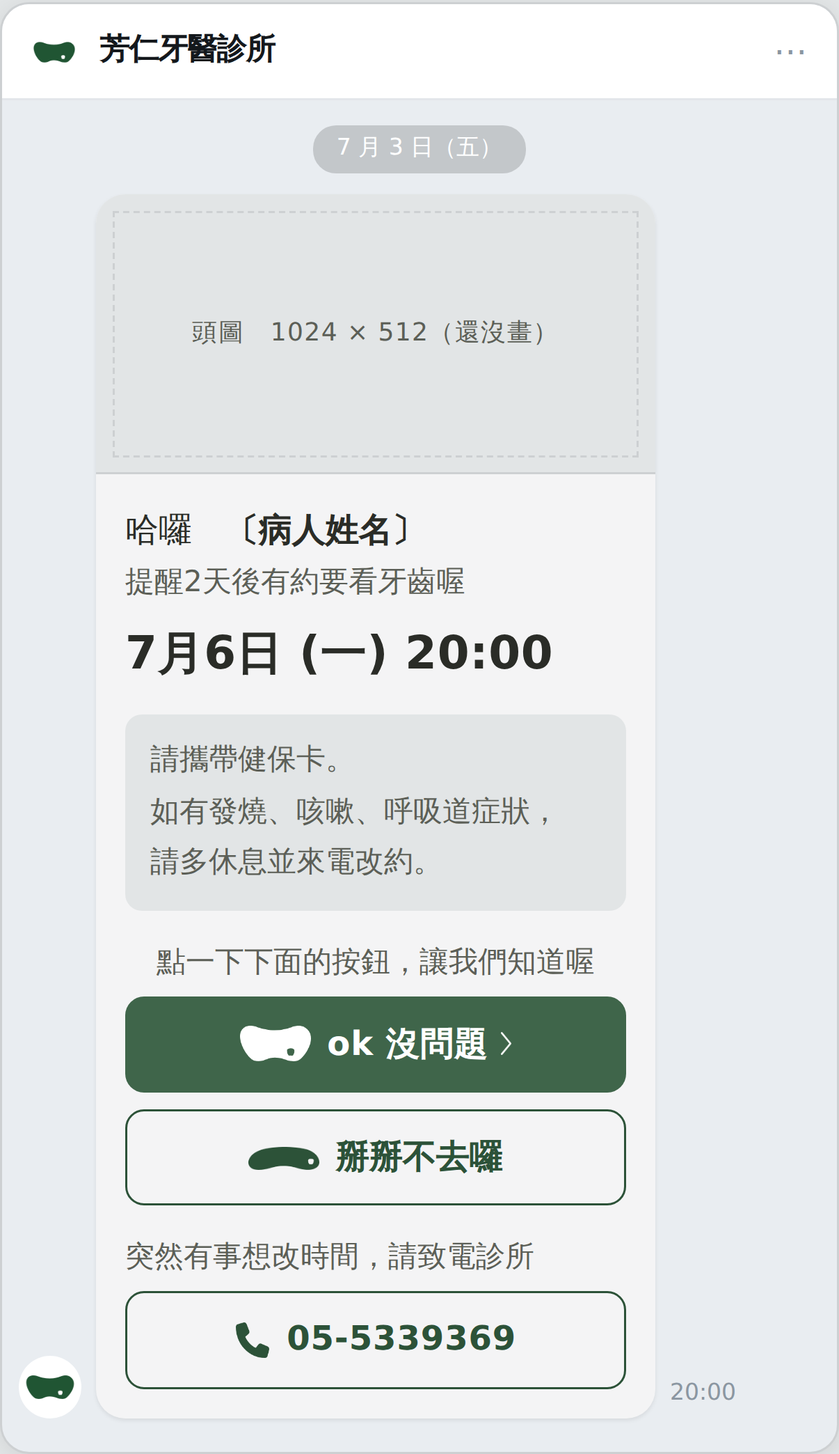
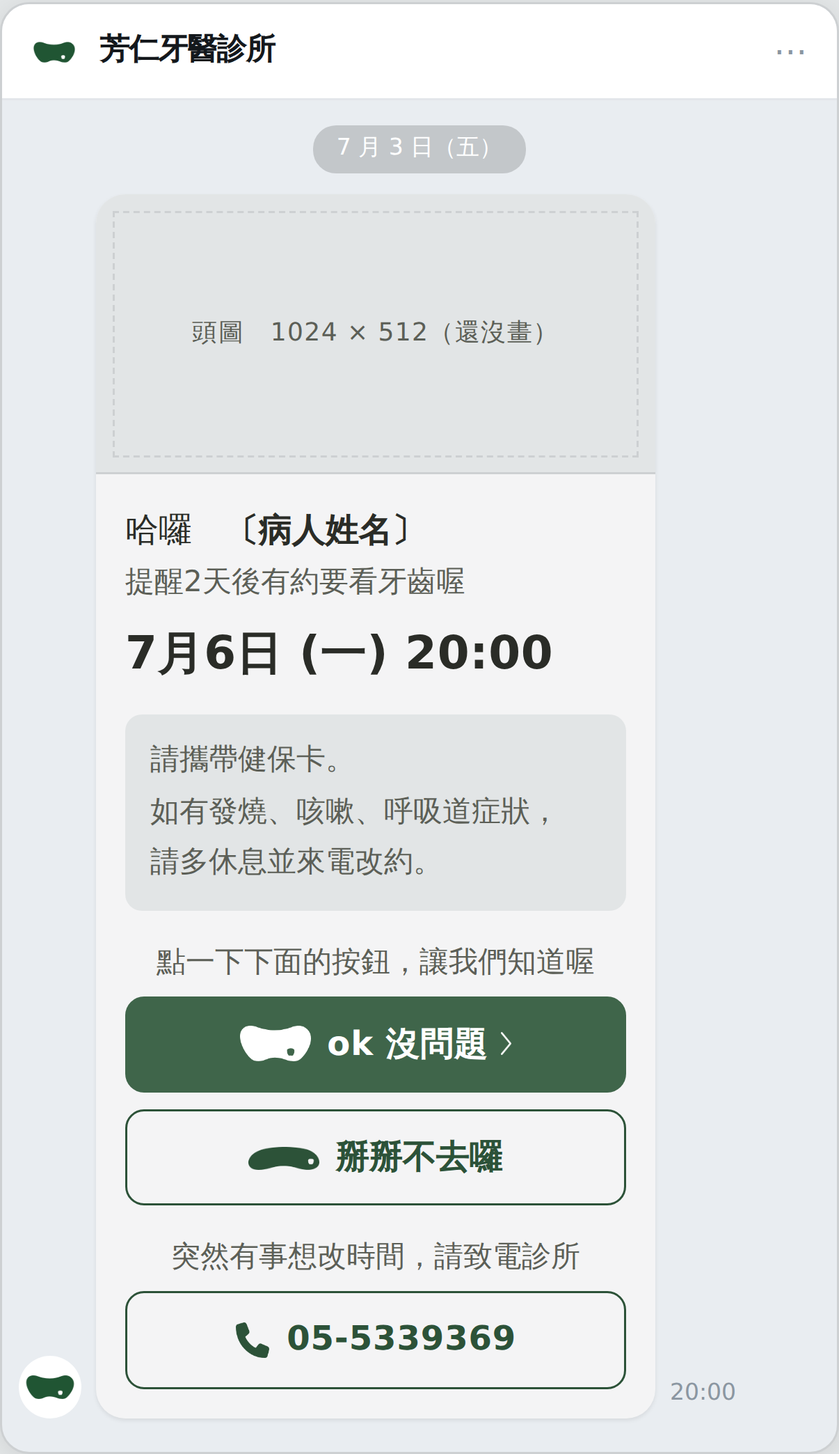
提醒卡：「突然有事想改時間，請致電診所」改置中
使用者指定。改完之後兩組「一句話 ＋ 一顆按鈕」的排法完全一致：
兩句都置中、兩顆按鈕本來就置中。

只動 text-align：高度 585.9、孤字 0、水平溢出 0、兩組間隔仍是
17.0/8.0，一個數字都沒變。

Claude-Session: https://claude.ai/code/session_01UiTa6aiLj4tvM4QQAkTm2r

Changed region(s): [[0.1534, 0.8405, 0.7056, 0.8716]]

diff --git a/preview/line-remind/index.html b/preview/line-remind/index.html
@@ -225,7 +225,10 @@ h1{font-size:1rem;font-weight:700;letter-spacing:.02em}
      16.8px 寬 ＝ 和主鈕那顆標誌**同高**（34 ÷ 2.029 ＝ 16.8）。 */
 /* ⚠ 電話那一句和它的按鈕**吃同一條規則**（同上）—— 版面上有兩組「一句話 ＋ 一顆按鈕」，
    兩組的間隔不一致的話，讀者會以為那是兩種不同的關係。切換條那把尺同時管這兩組。 */
-.pv-new .telnote{font-size:14px;line-height:1.7;color:var(--ink-soft);margin-top:14px}
+/* ⚠ 置中（2026-09-04 使用者指定）—— 這樣兩組「一句話 ＋ 一顆按鈕」的排法
+   完全一致：兩句都置中、兩顆按鈕本來就置中。 */
+.pv-new .telnote{font-size:14px;line-height:1.7;color:var(--ink-soft);margin-top:14px;
+  text-align:center}
 .pv-new .telnote + .tel{margin-top:calc(var(--ctagap, 8px) - 4.8px)}
 .pv-new .tel{display:flex;align-items:center;justify-content:center;gap:8px;
   border:1px solid var(--deep);border-radius:9px;padding:11px 6px;margin-top:8px;

diff --git a/CLAUDE.md b/CLAUDE.md
@@ -2298,7 +2298,7 @@ topics/<spec>/         ← 產出。**不要手改**，重跑就沒了
 | 招呼圖卡的頭圖 | `drafts/line-hello/`（`generate.mjs`／`bubble.mjs`／`README.md`）→ `preview/line-hello/hero-zenmaru.jpg`，規格頁 `/preview/line-hello/`。✅ 定案 |
 | **綁定完成** | ✅ **2026-09-04 定稿**（使用者：「最後定稿的是這個」）：**Ⓗ 你整理的・圖卡 ＋ 有頭圖 ＋ 改約那一塊用淡藍 `.10` 的淡底**。Flex 的 JSON 在 **`drafts/channels/bind-done-card.json`**，規格頁 `/preview/line-bind-done/`（**切換條已拿掉**），守門 **`node drafts/channels/check-bind-done.mjs`**，圖片兩張（`node drafts/channels/bind-done-png.mjs`，加 `--chat` 出第二張）：`shot-bind-done.png`（卡片本身，804×1857，3×）與 **`shot-bind-done-chat.png`**（**在 LINE 裡長什麼樣的模擬**，1206×2427，3×）。⚠ 模擬那張要用 **430 寬**拍 —— 429 以下手機框會貼齊頁面兩邊、圓角與左右框線被拿掉。⚠ **換視窗寬度截圖之前要先量「要展示的那個東西有沒有跟著變」**：實測 390 與 430 卡片都是 **268.0px**，只有周邊留白差 12px（第 **19-21** 節）。⚠ **Ⓖ 沒有真的落選** —— 它是「廠商送不出 Flex Message」時的退路（同一份內容一字不差），規格頁最底下仍然畫著它。⚠⚠ **兩塊淡底在 JSON 裡要寫合成後的實色**（警示 `#EEE5E6` ＝ 磚紅 .09、改約 `#E2E8EF` ＝ 淡藍 .10），不要寫半透明。⚠ **沒有拆成 body ＋ footer**（招呼卡那樣拆是因為中間有 separator，這一張兩塊方塊之間刻意沒有分隔線）。推導在第 **19-20** 節。以下是走到定稿的過程 —— **提案中**：`/preview/line-bind-done/`（**八案**，2026-09-03 開；**Ⓖ／Ⓗ 是使用者 2026-09-04 自己整理的那一份**，Ⓖ 純文字、Ⓗ 同一份做成圖卡，帶進三件新事實：提醒**要回覆確認**、**24 小時沒回應系統會自動取消**並遞補、家人綁定**要洽櫃檯**）。推導在 `drafts/channels/README.md` **第十九節**（09-04 那一輪在 **19-12**），定稿文字在 `drafts/line-auto-reply/README.md` 第 24-2 節「貳」。⚠ 使用者挑完才寫 Flex 的 JSON。⚠⚠ **時間的說法 2026-09-04 定案「看診前 48 小時」**，切換條上那一排已經收掉；**但招呼圖卡仍然寫「看診前2天」**（使用者自己逐字寫的、已定案），兩則目前不一致，**要統一得他點頭**。⚠ 這個 48 小時和「看診日 2 天前（不含假日）」是兩個不同的數字（提醒時機 vs 改約期限），**不要順手改成一致**。⚠⚠ 2026-09-04 再兩件（第 **19-13** 節）：「這裡沒有專人即時回覆訊息」**搬到改約那一段前面**（它是「為什麼要打電話」的前提）；24 小時那一段接上一把**強調**的尺（`?e=`），**兩種容器的四格不一樣** —— LINE 的**純文字訊息沒有粗體也沒有顏色**，只剩空行與記號，Flex 圖卡才做得到加粗／換色／淡底方塊。⚠⚠ 2026-09-04 再兩件（第 **19-15** 節）：**圖卡那一側定案「淡底方塊」**（切換條上收掉、寫死；純文字那一側還沒定案、那一排還在）；**改約那一句換成使用者的寫法**「約診更改或取消，最晚請於看診日前 2 天（不含假日）、於診所開診時段來電變更」——「最晚」把期限講死，**「開診時段」取代「週一至週五」**（國定假日休不休診還沒問到，寫「開診時段」就不必替診所答那一題）。⚠ 其餘六案仍是舊寫法，**刻意沒動**，等他挑完哪一案再統一。⚠⚠ 2026-09-04 再一件（第 **19-16** 節）：**改約那一段也做成淡底方塊**，底色四選一（紙灰／品牌綠／深綠松／同上面），**兩塊之間那條分隔線拿掉了**。⚠⚠ **綠與深綠松是 `.16` 不是 `.09`** —— 量過，九分之一濃時四個底色全部落在 **1.1 階**之內（L\* 90.6~91.7），**四格長得一模一樣、那把尺沒有意義**；`.16` 才讀得出是綠的，代價是比上面那塊磚紅重約 4 階。**通則：一把尺給出去之前先算四格彼此差多少，差不出來的尺比沒有尺還糟**。⚠⚠ 2026-09-04 再三件（第 **19-17** 節）：**加了淡藍、深綠松那一格拿掉**（深綠松 `.16` 是 L\* 86.2・彩度 2.5，和品牌綠的 87.6・2.7 分不出來）；淡藍**不能用官方色票那支** `#3C596B`（`.16` 彩度只剩 2.5，讀起來是灰的），取的是**齒顎矯正那支套色** `#4478b5`（`.16` 彩度 6.3，站上唯一淡開之後還讀得出是藍的）——**已知取捨：那是矯正的顏色**，但這一則不在站上也不在任何科別頁裡，不會和標記撞在一起。**通則的第二半：每一格還要撐得起它自己的名字，判準是彩度不是色相。**⚠ **數字前後那幾個半形空格拿掉了**（我照站上內文的習慣加的，他自己寫的那一份沒有），「（不含假日）」的**全形括號換成半形**（全形一組吃掉約 19px）。⚠⚠ **Ⓗ 那兩段之間的空行換成段落間距**：`\n\n` 是一整行 **24.5px**，拆成兩個 `text` ＋ 一個 `margin` 是 **8px**。**通則：Flex 裡兩段的距離有兩把工具，不要只會用空行**（`margin` 有 xs 4 ~ xxl 24 六階）；**Ⓖ 純文字那一側沒有這把工具，只有空行**。⚠⚠ 2026-09-04 再兩件（第 **19-18** 節）：**淡藍收到 `.10`**（使用者：「淡藍色看過去比上面的淡紅色還濃　要調成一樣的」）——「一樣濃」＝ **兩塊合成到卡色之後的 L\* 相同**，基準是磚紅 `.09` 的 L\* 91.6，反解出 a = .101。⚠⚠⚠ **而只有藍做得到，品牌綠與深綠松兩格因此都拿掉了**：壓到同一個 L\* 之後剩下的彩度是**淡藍 4.06**／磚紅 3.29／官方藍 1.50／品牌綠 1.37／深綠松 1.19，而**紙灰自己就是 1.18** ——「等重的綠」畫出來就是紙灰那一格。尺剩三格（紙灰／淡藍 .10／同上面）。**通則的第三半：「看得出顏色」與「和旁邊等重」是兩個要求，只有夠飽和的色相同時滿足得了；判斷方法是把每一支色壓到目標 L\* 再看誰的彩度還在。**⚠ **Ⓗ 那一對全形「」拿掉了，改成把選單名加粗**（使用者：「「」的全形也有很大的空格」）——`「`／`」` 各佔一整個全形字寬但墨只有角落那一撇，一對吃掉 **28.3px**（那一行 183.8 → 155.5）。Flex 就是一個 `span` 加 `weight: bold`，顏色不動。⚠⚠ **Ⓖ 純文字那一對留著，不是漏改** —— 純文字沒有粗體，拿掉引號就標示不出那是選單名。⚠ 實作：`<b>` **不可以寫進資料裡**（`spec()` 要拿同一份字串比對孤字），資料維持純文字、多一個 `strong` 欄位，`render()` 那一層才包。⚠ 2026-09-04 **存成圖片了**（第 **19-19** 節）：`node drafts/channels/bind-done-png.mjs` → `preview/line-bind-done/shot-card-{pa,bl,br}.png`（圖卡三格底色）、`shot-text.png`（純文字泡泡）、`shot-cards.png`（三格並排）。⚠⚠ **出在 `preview/` 不是 `drafts/`** —— drafts 進不了 `_site`，而使用者要的是「也存在網路上」（招呼卡那支 `card-png.mjs` 出在 drafts/，兩支落點不同是刻意的）。⚠⚠ **拍的是提案頁自己那張卡**，所以**那一頁改了就要重跑**，不然圖會開始說謊 |
 | 綁定完成的頭圖 | ✅ **2026-09-03 第四版定案**（使用者：「很不錯，就用這個圖吧」）—— 成品 `preview/line-bind-done/hero-bind.jpg`（**1024×512**，`node drafts/bind-done-hero-crop.mjs`，原檔 `drafts/bind-done-v4-src.jpg`），已接進提案頁 Ⓑ 那一案。定稿提示詞與逐輪推導在 **`drafts/line-bind-done-prompt.md`** —— 〈創造亞當〉的診間版（Gemini 出圖，使用者自己跑，走了四版）。⚠⚠⚠ **不要把原作那個「上帝在上」抹平成兩人等高** ——第一版就是這樣被退回的（寓意沒了，而且兩個成年人同高對指會被讀成醫病關係不單純）：**一側是一團人、飄著、比較高，另一側一個人躺著、比較低**，這個不對等就是那張畫的梗。⚠ 但**不對等只能靠位置給、不可以靠肌肉張力給** —— 第三版把病患的手寫成鬆垮的，整個人看起來像喝醉（＝麻醉或鎮靜的聯想）。⚠ 臉一律照站上那一套（有膚色、眉毛、鼻子、有表情的嘴），**不隨風格參考圖走**。逐輪紀錄與六條驗收在那一份，通則在 ILLUSTRATION.md 第十三節 |
-| **提醒卡（看診前 48 小時）** | ⏳ **2026-09-04 開了提案頁 `/preview/line-remind/`（兩案 ＋ 四把尺，還沒定案）**。⚠⚠ **文案 2026-09-04 晚間換成使用者自己寫的**（哈囉／病人名字／提醒2天後有約要看牙齒喔／日期／按鈕「ok 沒問題」＋logo／須知只留兩條），**加了頭圖但圖還沒畫、先預留位置**。⚠⚠⚠ **取消鈕那一題的分析結論：建議留，但維持文字鈕** —— 真正重要的理由只有一個：**拿掉之後「來不了」和「沒看到訊息」在診所眼裡會變成同一件事**（24 小時沒回應一律自動取消），而診所對這兩種人的處理本來就不一樣（重要療程會打電話追、定期檢查就當他不想來）—— 那顆按鈕是目前唯一分得出來的東西。次要理由：誤按沒有回頭路。**「兩顆會稀釋主要動作」成立，所以留成文字鈕不是實心第二顆**（現況那一顆本來就是文字鈕，那一點現況是對的）。⚠⚠ **「須知寫來電改約、底下又有按鈕」不是二選一** —— 解法是把兩件事講成兩件事：**按鈕＝告訴我們你不會來、電話＝重新約時間**，寫成一前一後就不打架了。**通則：兩個管道看起來打架時，先問它們是不是同一個動作。**⚠⚠⚠ **「2天後」有事實風險**：真截圖那一則是 7/3（五）送、約診 7/6（一）＝ **3 天**，寫死「2天後」對那位病人是錯的，週一週二的約診都會對不上。三條路（維持但要廠商保證固定／**把天數拿掉**，日期本來就在下一行且最大／讓系統填）已經列給他挑 —— **沒有自己改掉他的字**。**通則：使用者寫的字裡有一個會出錯的事實時，照寫、把證據攤開、給選項，不要自己改也不要不講。**⚠⚠ **他把「戴口罩」拿掉了**（現況第 1 條有），照做了但那是**政策改變不是文案精簡，要醫師點頭**。⚠ **主鈕做成可點的 box 不是 `button`**（Flex 的 button 不支援圖示），logo 用招呼卡已產好的 `mark-white.png`（34px），沒有另產一份。⚠ **有頭圖就把頂端那行診所名拿掉**（同綁定完成），切到不放圖它會回來。⚠⚠ **開場那一句要拆兩行**（「哈囉　〔名字〕」／「提醒2天後…」）—— 他原句把變數夾在中間，名字一長會把「喔」擠成孤字；拆開之後 8 個字的名字都還在寬度內。**用字一個都沒改。**⚠ 量到：現況 615px(73%)／新版全留**含頭圖 789px(94%)**／全砍 378px(45%)，頭圖自己就 134px。⚠⚠ 頭圖畫的時候有一個和綁定完成不一樣的條件：**這一則每次約診都送一次，同一個人一年看很多次 —— 要耐看，不要有太強的梗**。⚠⚠ 這一頁是使用者約好要定**版型與那顆確認的按鈕**的地方（第 19-12 節），定完再回頭看綁定完成那一則要不要多寫一句。推導在 `drafts/channels/README.md` **第二十節**。⚠⚠⚠ **`drafts/channels/reminder-card.json` 是 2026-09-02 的舊版，不要拿給廠商** —— 它沒有 24 小時那一段、改約那句是舊寫法、日期還帶年份；**使用者挑完才會重寫**。⚠⚠ **24 小時自動取消那件事是「這一張卡」的事**：那 24 小時是從這一則送出的那一刻開始算的，綁定完成那一則只是先告訴他有這回事 —— 所以非寫在提醒卡上不可，不然病人是在不知情的狀態下被計時。⚠⚠ **現況那一張是從使用者 2026-09-04 的真截圖逐像素量出來重做的**（內文 16px、姓名與日期 22px、內距 22px、標題列 43.7、按鈕 60、「⚠ 就診須知 ⚠」**靠右不是置中**）——⚠⚠⚠ **第一版是「照描」的，字級全部猜小了（內文猜成 14、內距猜成 13），把現況量成 438px，結論整個錯**。**通則：照截圖描一份和量一份是兩件事** —— 描出來的很像，數字全錯，而後面每一個判斷都建立在那些數字上。重量之後：現況 615px（73%）、新版全留 696px（82%）、全砍 460px（55%），**新版只多 81px**。⚠⚠⚠ **那張截圖是診所端的後台不是病人手機**（標題是病人名字、有「使用手動聊天」與「已讀」），所以它的卡片 348px **不是病人看到的寬度**；⚠ 而 **268 這個數字我們從來沒有在病人手機上量過**（是招呼卡那一輪的工作值）—— 方向是安全的（真的更寬只是保守），但**要一張病人手機的截圖才收得掉**。⚠⚠⚠ **它不是 48 小時送的**：截圖上 7/3（五）送、約診 7/6（一）＝ 3 天。48 小時前是週六、診所沒開 —— 可能是**系統會避開休診日**（那 19-12 那題有一半有答案了），也可能是**固定 3 天前**。**一個樣本推不出通則，要再看一兩則不同星期的**，或直接看後台排程。⚠ 順帶：協議期限是 7/2（四），7/3 送仍然晚一個開診日 —— 8-1 那個矛盾還在，只是沒那麼嚴重。⚠⚠ **有變數的那一行不能手動斷行**（`{{patient}}` 是系統填的）—— 做法是把「提醒您，」單獨一行、讓變數那一行從行首開始，名字 8 個字以內都不會折。⚠ 日期只要求兩件（拿掉年份、月日改中文），**括號維持廠商現在的半形** —— 要求的改動愈小愈可能真的改到。⚠ 「沒有專人＋改約期限＋電話」那一整塊**逐字沿用綁定完成那一則**（淡藍 `.10`），同一件事兩則用同一組字。⚠ 圖三張 `node drafts/channels/remind-png.mjs`（加 `--old`／`--chat`），**拍的是提案頁自己那張卡，那一頁改了就要重跑**。⚠ 時機**維持 48 小時**（第 15-9 節已結案，不要再提拆兩次或用開診日算）。時間換算 `timing.mjs`。⚠⚠⚠ **2026-09-04 深夜第三輪：兩塊淡底整個拿掉、兩顆新按鈕**（第 **20-12** 節）——使用者六件逐字：請攜帶健保卡／如有發燒…請多休息並來電改約／**粉紅底整個拿掉**／取消鈕**加 logo**（shape_r2c3 嘴巴倒過來）／新增「臨時有事須改約，請致電診所」＋**電話鈕**／**藍灰底整個拿掉**；稍晚兩件：**次要那顆的字改成他寫的「掰掰不去囉」**（原本是我擬的「我不能到」）、**電話鈕上面那一句改成「突然有事想改時間，請致電診所」**（原本是我擬的「臨時有事須改約」）。⚠⚠ 至此**這張卡上每一個字都是使用者自己寫的**，我擬的兩處都被換掉了，方向是同一個：**「須」是規定的口氣、「改約」是診所的行話**，他的版本是病人自己會講的話。**通則：我們寫得出正確的句子，寫不出他那種口氣 —— 文案的最後一哩要留給他。**⚠⚠⚠ **「牙洞怎麼調」的答案是不必調** —— 那顆標誌是單一路徑、洞靠 `fill-rule: evenodd` 挖的，**整張上下翻**（繞自己 bbox 中線）洞就跟著翻到右葉下半、仍然被包著；**只翻外框、洞留原位的話，洞會落在形狀外面、靜靜地消失而且不報錯**。產生器 `remind-marks.mjs` 因此加了守門（逐列數「被墨包住的透明像素」，<30 就 throw，實測 1502 ✓）。⚠ **尺寸是算出來的不是挑的**：主鈕那顆 34px 寬→高 16.8，所以 **nogo 也給 34px**（高 11.0）、**話筒給 16.8px 寬**（＝同高），三顆才像一組。⚠⚠ **取消鈕做成線框鈕不是第二顆綠鈕** —— 「兩顆會稀釋主要動作」成立，所以同框同 logo、但底是空的。⚠⚠⚠ **拿掉那兩塊各帶走一件事實，已經寫在頁面底下給他看**：粉紅底帶走「24 小時沒回應會自動取消並遞補」（**那 24 小時是從這一則送出算的，拿掉之後病人是在不知情的狀態下被計時**；給了兩個補救、**那把尺留著**、沒有自己加回去）；藍灰底帶走「沒有專人」與「看診日前 2 天（不含假日）」——**後者拿掉其實是對的**（這張卡 48 小時才送，期限那時已經過了，它的家是綁定完成那一則）。⚠⚠ **電話做成按鈕不違反 09-04 那條通則** —— 那一條禁的是「說明句裡的號碼穿按鈕的衣服」，而這裡上一句「請致電診所」本身就是叫他現在打。**通則：判斷一個東西該不該做成按鈕，看它上一句話。**⚠ 上一輪那句 `fine`（按了我們會打電話）拿掉了 —— 現在是「請致電診所」在做同一件事，留著會兩句搶同一個位置。⚠ 量測（430／393／390／375／360）：卡片 268.0、高 **563.8**、孤字 0、水平溢出 0、JS 錯誤 0、最寬一行 205.2（可用 240）、八個對比 0 個不過（主鈕 6.62／兩顆線框鈕 8.06／那一句 5.92）、切換條 24.0%／收起 5.1%。⚠⚠ **新版現在比現況矮**（563.8 vs 615）**而且還帶著頭圖** ——上一輪「只多 81px」那句作廢。⚠⚠⚠ **2026-09-04 深夜第四輪：「少了要病患點下去的感覺」**（第 **20-13** 節）——使用者：「原來的版本有說點擊回覆，按鈕上也有手勢提示，你們想一下怎麼弄。」⚠⚠⚠ **拆開來是三件各自獨立的事**（同第九節第 17 條那個淡出）：**①有沒有一句話開口叫他點**（現況有、我們拿掉了，**影響最大** —— 這一則的工作就是「請你回覆」，按鈕再像按鈕也不如一句話直接開口）、**②按鈕上的「往前走」記號**（現況是 👉）、**③按鈕看起來像不像鈕**（現況是藥丸，我們是圓角方框，而**方框在這一站是「框」的語彙**、框不見得等於可以按）。**修一個不會治好另外兩個。**⚠⚠⚠ **還有第四件而且畫面上補不回來**：主鈕是「可點的 box」不是 Flex 的 `button`（button 放不進圖示，而使用者要 logo），**box 沒有按壓效果** —— 「點下去的感覺」有一半是按下那一瞬間的回饋，那一半為了 logo 已經換掉了。⚠ **LINE 對可點的 box 會不會給按壓反白，我們沒有實機驗過**、文件也沒寫 ——**加進廠商那幾題**；「主鈕的形狀」最後一格「真的按鈕（沒 logo）」就是這個取捨，**擺出來讓他比、不是建議**。三條尺 `?c=`／`?g=`／`?s=`，**預設開在建議的那一組**（`c=b`＋`g=main`＋`s=box`）。⚠⚠ **角形用站上自己那一條**（首頁「往下滑」、「回到最上面」、文章卡「繼續讀」同一條，**把 x/y 對調轉成朝右**），**不要打一個「›」** —— 那個字在 Android 與 iOS 上長得不一樣、粗細也對不上。⚠⚠ **筆畫的形狀 `getBBox()` 量不到**（不含 stroke），外框要自己算；產生器的「檔案太小＝空圖」門檻因此從位元組改成**看墨佔多少**（角形只有 21%）。⚠ **角形跟著「字」走不是跟著標誌走**：16px 的字配 11px 高 → 5.3px 寬 ——**三顆圖示的基準各不相同**（nogo 34px 寬跟著標誌、話筒 16.8px 寬＝和主鈕標誌同高），**那不是漏改成一致**。⚠⚠ **現況那句話搬到 268px 會折出孤字「診 ↓」**（三個寬度都是）—— 那句是在**診所端後台 348px 的框**裡看的，**再一次證明病人那一側的寬度要自己量**。⚠ 量到：建議那一組 601.5px（仍比現況 615 矮、而且帶著頭圖）、孤字 0、水平溢出 0、JS 錯誤 0。⚠ **切換條收掉三把已定案的尺**（頭圖／24 小時／就診須知，手機一次只放得下四條），**網址參數仍然吃得到**（`?w=box` 把 24 小時放回來）。⚠⚠⚠ **2026-09-04 深夜第五輪：「那一句和按鈕的間隔很大」**（第 **20-14** 節）——⚠⚠⚠ **量出來問題不是「太大」，是「上下一樣大」**：上面（方塊→字面）17.0、下面（字面→按鈕）**18.8**，**下面反而還大一點**，那句話因此浮在正中間、眼睛沒有理由把它歸給按鈕（接近律）。**所以要改的是上下的比例，不是兩邊一起縮** ——**上面那 17.0 一個字都沒動**（它是「就診須知」與「請你回覆」的分界）。尺 `?p=` 量的是**字面到按鈕**：18.8（1.11）／12（0.70）／**8（0.47，預設）**／5（0.29）。⚠⚠ **看得到的距離不等於 `margin`** —— 行高 1.7 讓字面下方多 **4.8px 的半行距**，`margin-top:14` 畫出來是 18.8；margin 由 `calc(var(--ctagap) - 4.8px)` 扣掉，面板每一格現場重量。**通則：「兩個東西看起來多遠」要量墨到墨，不是盒到盒** ——中文的行高把 3~5px 藏在字的上下，寫 margin 的人看不到。⚠ **電話那一句吃同一條規則、跟著一起動**：這張卡有**兩組「一句話＋一顆按鈕」**，間隔不一致會被讀成兩種不同的關係。⚠⚠⚠ **踩到一個坑：自訂屬性不會傳給兄弟** —— 第一版把 `--ctagap` 設在那一句自己身上，而用它的規則是 `.cta + .btn`（作用在**兄弟**上），於是一路退回預設值：**按了沒反應、不報錯、四格量出來一模一樣**（同第九節第 24、25 條那種病，**只有拿數字量才看得出來**）。**通則：一個變數要影響兄弟，就要設在它們的父層。**⚠ 量到：卡片 268.0、高 **585.9**、孤字 0、水平溢出 0、JS 錯誤 0、兩組都是 17.0/8.0；切換條 **24.7%**（「叫他點的那句」那一列的**標籤**縮短才從 27.5% 收回一列，**卡片上的字一個都沒動**）。⚠ **切換條再收掉「掰掰不去囉」那把尺**（他已說「這樣很好」），`?n=text`／`?n=drop` 仍然吃得到 |
+| **提醒卡（看診前 48 小時）** | ⏳ **2026-09-04 開了提案頁 `/preview/line-remind/`（兩案 ＋ 四把尺，還沒定案）**。⚠⚠ **文案 2026-09-04 晚間換成使用者自己寫的**（哈囉／病人名字／提醒2天後有約要看牙齒喔／日期／按鈕「ok 沒問題」＋logo／須知只留兩條），**加了頭圖但圖還沒畫、先預留位置**。⚠⚠⚠ **取消鈕那一題的分析結論：建議留，但維持文字鈕** —— 真正重要的理由只有一個：**拿掉之後「來不了」和「沒看到訊息」在診所眼裡會變成同一件事**（24 小時沒回應一律自動取消），而診所對這兩種人的處理本來就不一樣（重要療程會打電話追、定期檢查就當他不想來）—— 那顆按鈕是目前唯一分得出來的東西。次要理由：誤按沒有回頭路。**「兩顆會稀釋主要動作」成立，所以留成文字鈕不是實心第二顆**（現況那一顆本來就是文字鈕，那一點現況是對的）。⚠⚠ **「須知寫來電改約、底下又有按鈕」不是二選一** —— 解法是把兩件事講成兩件事：**按鈕＝告訴我們你不會來、電話＝重新約時間**，寫成一前一後就不打架了。**通則：兩個管道看起來打架時，先問它們是不是同一個動作。**⚠⚠⚠ **「2天後」有事實風險**：真截圖那一則是 7/3（五）送、約診 7/6（一）＝ **3 天**，寫死「2天後」對那位病人是錯的，週一週二的約診都會對不上。三條路（維持但要廠商保證固定／**把天數拿掉**，日期本來就在下一行且最大／讓系統填）已經列給他挑 —— **沒有自己改掉他的字**。**通則：使用者寫的字裡有一個會出錯的事實時，照寫、把證據攤開、給選項，不要自己改也不要不講。**⚠⚠ **他把「戴口罩」拿掉了**（現況第 1 條有），照做了但那是**政策改變不是文案精簡，要醫師點頭**。⚠ **主鈕做成可點的 box 不是 `button`**（Flex 的 button 不支援圖示），logo 用招呼卡已產好的 `mark-white.png`（34px），沒有另產一份。⚠ **有頭圖就把頂端那行診所名拿掉**（同綁定完成），切到不放圖它會回來。⚠⚠ **開場那一句要拆兩行**（「哈囉　〔名字〕」／「提醒2天後…」）—— 他原句把變數夾在中間，名字一長會把「喔」擠成孤字；拆開之後 8 個字的名字都還在寬度內。**用字一個都沒改。**⚠ 量到：現況 615px(73%)／新版全留**含頭圖 789px(94%)**／全砍 378px(45%)，頭圖自己就 134px。⚠⚠ 頭圖畫的時候有一個和綁定完成不一樣的條件：**這一則每次約診都送一次，同一個人一年看很多次 —— 要耐看，不要有太強的梗**。⚠⚠ 這一頁是使用者約好要定**版型與那顆確認的按鈕**的地方（第 19-12 節），定完再回頭看綁定完成那一則要不要多寫一句。推導在 `drafts/channels/README.md` **第二十節**。⚠⚠⚠ **`drafts/channels/reminder-card.json` 是 2026-09-02 的舊版，不要拿給廠商** —— 它沒有 24 小時那一段、改約那句是舊寫法、日期還帶年份；**使用者挑完才會重寫**。⚠⚠ **24 小時自動取消那件事是「這一張卡」的事**：那 24 小時是從這一則送出的那一刻開始算的，綁定完成那一則只是先告訴他有這回事 —— 所以非寫在提醒卡上不可，不然病人是在不知情的狀態下被計時。⚠⚠ **現況那一張是從使用者 2026-09-04 的真截圖逐像素量出來重做的**（內文 16px、姓名與日期 22px、內距 22px、標題列 43.7、按鈕 60、「⚠ 就診須知 ⚠」**靠右不是置中**）——⚠⚠⚠ **第一版是「照描」的，字級全部猜小了（內文猜成 14、內距猜成 13），把現況量成 438px，結論整個錯**。**通則：照截圖描一份和量一份是兩件事** —— 描出來的很像，數字全錯，而後面每一個判斷都建立在那些數字上。重量之後：現況 615px（73%）、新版全留 696px（82%）、全砍 460px（55%），**新版只多 81px**。⚠⚠⚠ **那張截圖是診所端的後台不是病人手機**（標題是病人名字、有「使用手動聊天」與「已讀」），所以它的卡片 348px **不是病人看到的寬度**；⚠ 而 **268 這個數字我們從來沒有在病人手機上量過**（是招呼卡那一輪的工作值）—— 方向是安全的（真的更寬只是保守），但**要一張病人手機的截圖才收得掉**。⚠⚠⚠ **它不是 48 小時送的**：截圖上 7/3（五）送、約診 7/6（一）＝ 3 天。48 小時前是週六、診所沒開 —— 可能是**系統會避開休診日**（那 19-12 那題有一半有答案了），也可能是**固定 3 天前**。**一個樣本推不出通則，要再看一兩則不同星期的**，或直接看後台排程。⚠ 順帶：協議期限是 7/2（四），7/3 送仍然晚一個開診日 —— 8-1 那個矛盾還在，只是沒那麼嚴重。⚠⚠ **有變數的那一行不能手動斷行**（`{{patient}}` 是系統填的）—— 做法是把「提醒您，」單獨一行、讓變數那一行從行首開始，名字 8 個字以內都不會折。⚠ 日期只要求兩件（拿掉年份、月日改中文），**括號維持廠商現在的半形** —— 要求的改動愈小愈可能真的改到。⚠ 「沒有專人＋改約期限＋電話」那一整塊**逐字沿用綁定完成那一則**（淡藍 `.10`），同一件事兩則用同一組字。⚠ 圖三張 `node drafts/channels/remind-png.mjs`（加 `--old`／`--chat`），**拍的是提案頁自己那張卡，那一頁改了就要重跑**。⚠ 時機**維持 48 小時**（第 15-9 節已結案，不要再提拆兩次或用開診日算）。時間換算 `timing.mjs`。⚠⚠⚠ **2026-09-04 深夜第三輪：兩塊淡底整個拿掉、兩顆新按鈕**（第 **20-12** 節）——使用者六件逐字：請攜帶健保卡／如有發燒…請多休息並來電改約／**粉紅底整個拿掉**／取消鈕**加 logo**（shape_r2c3 嘴巴倒過來）／新增「臨時有事須改約，請致電診所」＋**電話鈕**／**藍灰底整個拿掉**；稍晚兩件：**次要那顆的字改成他寫的「掰掰不去囉」**（原本是我擬的「我不能到」）、**電話鈕上面那一句改成「突然有事想改時間，請致電診所」**（原本是我擬的「臨時有事須改約」）。⚠⚠ 至此**這張卡上每一個字都是使用者自己寫的**，我擬的兩處都被換掉了，方向是同一個：**「須」是規定的口氣、「改約」是診所的行話**，他的版本是病人自己會講的話。**通則：我們寫得出正確的句子，寫不出他那種口氣 —— 文案的最後一哩要留給他。**⚠⚠⚠ **「牙洞怎麼調」的答案是不必調** —— 那顆標誌是單一路徑、洞靠 `fill-rule: evenodd` 挖的，**整張上下翻**（繞自己 bbox 中線）洞就跟著翻到右葉下半、仍然被包著；**只翻外框、洞留原位的話，洞會落在形狀外面、靜靜地消失而且不報錯**。產生器 `remind-marks.mjs` 因此加了守門（逐列數「被墨包住的透明像素」，<30 就 throw，實測 1502 ✓）。⚠ **尺寸是算出來的不是挑的**：主鈕那顆 34px 寬→高 16.8，所以 **nogo 也給 34px**（高 11.0）、**話筒給 16.8px 寬**（＝同高），三顆才像一組。⚠⚠ **取消鈕做成線框鈕不是第二顆綠鈕** —— 「兩顆會稀釋主要動作」成立，所以同框同 logo、但底是空的。⚠⚠⚠ **拿掉那兩塊各帶走一件事實，已經寫在頁面底下給他看**：粉紅底帶走「24 小時沒回應會自動取消並遞補」（**那 24 小時是從這一則送出算的，拿掉之後病人是在不知情的狀態下被計時**；給了兩個補救、**那把尺留著**、沒有自己加回去）；藍灰底帶走「沒有專人」與「看診日前 2 天（不含假日）」——**後者拿掉其實是對的**（這張卡 48 小時才送，期限那時已經過了，它的家是綁定完成那一則）。⚠⚠ **電話做成按鈕不違反 09-04 那條通則** —— 那一條禁的是「說明句裡的號碼穿按鈕的衣服」，而這裡上一句「請致電診所」本身就是叫他現在打。**通則：判斷一個東西該不該做成按鈕，看它上一句話。**⚠ 上一輪那句 `fine`（按了我們會打電話）拿掉了 —— 現在是「請致電診所」在做同一件事，留著會兩句搶同一個位置。⚠ 量測（430／393／390／375／360）：卡片 268.0、高 **563.8**、孤字 0、水平溢出 0、JS 錯誤 0、最寬一行 205.2（可用 240）、八個對比 0 個不過（主鈕 6.62／兩顆線框鈕 8.06／那一句 5.92）、切換條 24.0%／收起 5.1%。⚠⚠ **新版現在比現況矮**（563.8 vs 615）**而且還帶著頭圖** ——上一輪「只多 81px」那句作廢。⚠⚠⚠ **2026-09-04 深夜第四輪：「少了要病患點下去的感覺」**（第 **20-13** 節）——使用者：「原來的版本有說點擊回覆，按鈕上也有手勢提示，你們想一下怎麼弄。」⚠⚠⚠ **拆開來是三件各自獨立的事**（同第九節第 17 條那個淡出）：**①有沒有一句話開口叫他點**（現況有、我們拿掉了，**影響最大** —— 這一則的工作就是「請你回覆」，按鈕再像按鈕也不如一句話直接開口）、**②按鈕上的「往前走」記號**（現況是 👉）、**③按鈕看起來像不像鈕**（現況是藥丸，我們是圓角方框，而**方框在這一站是「框」的語彙**、框不見得等於可以按）。**修一個不會治好另外兩個。**⚠⚠⚠ **還有第四件而且畫面上補不回來**：主鈕是「可點的 box」不是 Flex 的 `button`（button 放不進圖示，而使用者要 logo），**box 沒有按壓效果** —— 「點下去的感覺」有一半是按下那一瞬間的回饋，那一半為了 logo 已經換掉了。⚠ **LINE 對可點的 box 會不會給按壓反白，我們沒有實機驗過**、文件也沒寫 ——**加進廠商那幾題**；「主鈕的形狀」最後一格「真的按鈕（沒 logo）」就是這個取捨，**擺出來讓他比、不是建議**。三條尺 `?c=`／`?g=`／`?s=`，**預設開在建議的那一組**（`c=b`＋`g=main`＋`s=box`）。⚠⚠ **角形用站上自己那一條**（首頁「往下滑」、「回到最上面」、文章卡「繼續讀」同一條，**把 x/y 對調轉成朝右**），**不要打一個「›」** —— 那個字在 Android 與 iOS 上長得不一樣、粗細也對不上。⚠⚠ **筆畫的形狀 `getBBox()` 量不到**（不含 stroke），外框要自己算；產生器的「檔案太小＝空圖」門檻因此從位元組改成**看墨佔多少**（角形只有 21%）。⚠ **角形跟著「字」走不是跟著標誌走**：16px 的字配 11px 高 → 5.3px 寬 ——**三顆圖示的基準各不相同**（nogo 34px 寬跟著標誌、話筒 16.8px 寬＝和主鈕標誌同高），**那不是漏改成一致**。⚠⚠ **現況那句話搬到 268px 會折出孤字「診 ↓」**（三個寬度都是）—— 那句是在**診所端後台 348px 的框**裡看的，**再一次證明病人那一側的寬度要自己量**。⚠ 量到：建議那一組 601.5px（仍比現況 615 矮、而且帶著頭圖）、孤字 0、水平溢出 0、JS 錯誤 0。⚠ **切換條收掉三把已定案的尺**（頭圖／24 小時／就診須知，手機一次只放得下四條），**網址參數仍然吃得到**（`?w=box` 把 24 小時放回來）。⚠⚠⚠ **2026-09-04 深夜第五輪：「那一句和按鈕的間隔很大」**（第 **20-14** 節）——⚠⚠⚠ **量出來問題不是「太大」，是「上下一樣大」**：上面（方塊→字面）17.0、下面（字面→按鈕）**18.8**，**下面反而還大一點**，那句話因此浮在正中間、眼睛沒有理由把它歸給按鈕（接近律）。**所以要改的是上下的比例，不是兩邊一起縮** ——**上面那 17.0 一個字都沒動**（它是「就診須知」與「請你回覆」的分界）。尺 `?p=` 量的是**字面到按鈕**：18.8（1.11）／12（0.70）／**8（0.47，預設）**／5（0.29）。⚠⚠ **看得到的距離不等於 `margin`** —— 行高 1.7 讓字面下方多 **4.8px 的半行距**，`margin-top:14` 畫出來是 18.8；margin 由 `calc(var(--ctagap) - 4.8px)` 扣掉，面板每一格現場重量。**通則：「兩個東西看起來多遠」要量墨到墨，不是盒到盒** ——中文的行高把 3~5px 藏在字的上下，寫 margin 的人看不到。⚠ **電話那一句吃同一條規則、跟著一起動**：這張卡有**兩組「一句話＋一顆按鈕」**，間隔不一致會被讀成兩種不同的關係。⚠⚠⚠ **踩到一個坑：自訂屬性不會傳給兄弟** —— 第一版把 `--ctagap` 設在那一句自己身上，而用它的規則是 `.cta + .btn`（作用在**兄弟**上），於是一路退回預設值：**按了沒反應、不報錯、四格量出來一模一樣**（同第九節第 24、25 條那種病，**只有拿數字量才看得出來**）。**通則：一個變數要影響兄弟，就要設在它們的父層。**⚠ 量到：卡片 268.0、高 **585.9**、孤字 0、水平溢出 0、JS 錯誤 0、兩組都是 17.0/8.0；切換條 **24.7%**（「叫他點的那句」那一列的**標籤**縮短才從 27.5% 收回一列，**卡片上的字一個都沒動**）。⚠ **切換條再收掉「掰掰不去囉」那把尺**（他已說「這樣很好」），`?n=text`／`?n=drop` 仍然吃得到。⚠ 稍晚一件：**「突然有事想改時間，請致電診所」改置中**（使用者指定）——改完**兩組「一句話＋一顆按鈕」的排法完全一致**（兩句都置中、兩顆按鈕本來就置中）；只動 `text-align`，高度、折行、間隔一個數字都沒變 |
 
 ### 十一之二、⚠⚠ LINE Flex Message 的硬條件（不知道會做出對不上的東西）
 

diff --git a/drafts/channels/README.md b/drafts/channels/README.md
@@ -3029,3 +3029,7 @@ g5   5.0　　　　 0.29　快貼上去了
 
 使用者已經看過線框鈕並說「這樣很好」。手機一次只放得下四條。
 **網址參數還吃得到**：`?n=text` 只有字、`?n=drop` 拿掉。
+
+#### 2026-09-04 稍晚：「突然有事想改時間，請致電診所」改置中
+
+使用者指定。改完之後**兩組「一句話 ＋ 一顆按鈕」的排法完全一致**：兩句都置中、兩顆按鈕本來就置中。⚠ 只動 `text-align`，**高度、折行、間隔一個數字都沒變**（585.9px、孤字 0、兩組仍是 17.0/8.0）。
